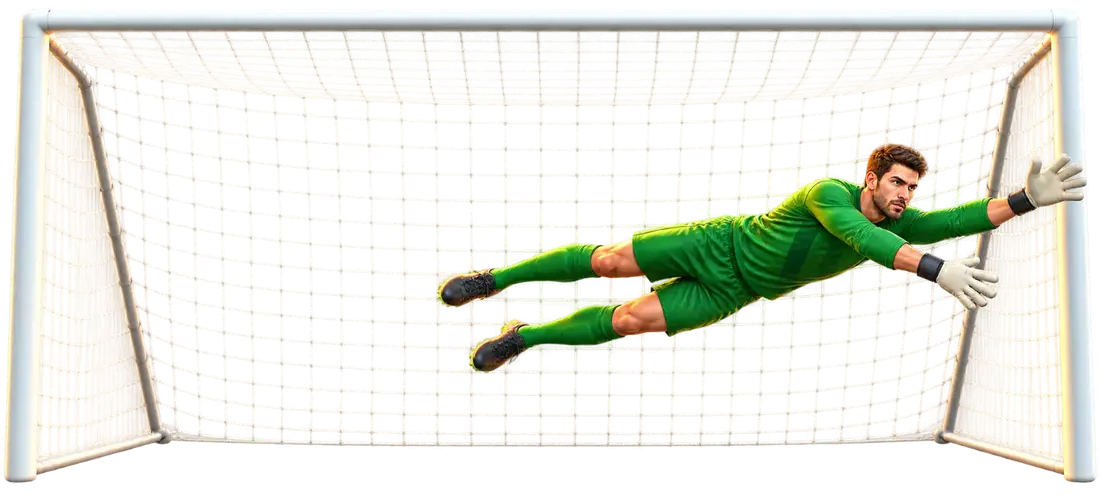
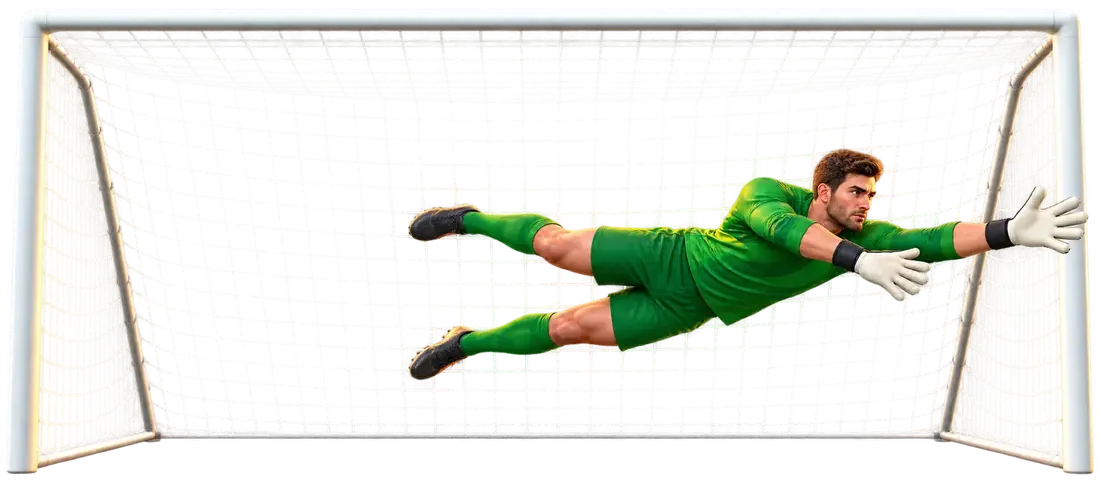
Футбол: вратарь закрыт — все шесть кадров (6 из 6)
Настоящий прыжок вправо вместо зеркального и прыжок вверх для удара
в центр. Персонаж и створ совпадают со всем набором.

Claude-Session: https://claude.ai/code/session_01EEDUyoGmF6S3QDQvpMJ5mF

Changed region(s): [[0.0, 0.03, 1.0, 0.99]]

diff --git a/index.html b/index.html
@@ -983,11 +983,10 @@ const ASSETS = {
   goal:         "",   // ворота с сеткой для пенальти
   logo:         "",   // логотип на экране меню (заменяет текстовую надпись)
   trophy:       "",   // кубок на экране победы
-  // Вратарь: цельные кадры «ворота + вратарь» на общем холсте 2.2:1.
-  // diveC пуст — при прыжке в центр остаётся кадр стойки (код сам подставляет idle).
+  // Вратарь: цельные кадры «ворота + вратарь» на общем холсте 2.2:1, все шесть поз.
   keeper: { idle:"assets/keeper_idle.webp", leanL:"assets/keeper_lean_l.webp",
             leanR:"assets/keeper_lean_r.webp", diveL:"assets/keeper_dive_l.webp",
-            diveR:"assets/keeper_dive_r.webp", diveC:"" },
+            diveR:"assets/keeper_dive_r.webp", diveC:"assets/keeper_dive_c.webp" },
   // Карточки для полноэкранной вспышки.
   card:   { y:"", r:"" },
   // Иконки категорий = флангов атаки. Ключи совпадают с CATS в questions.js.
